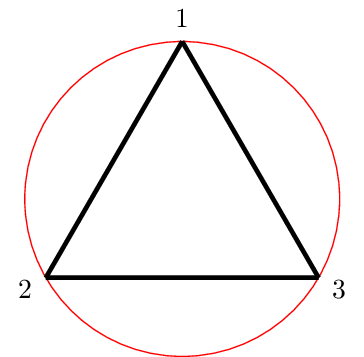
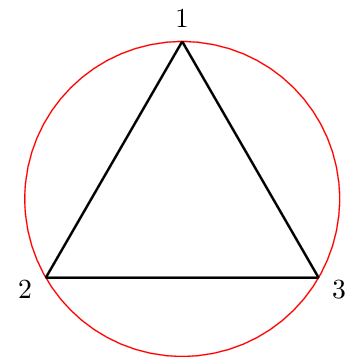
atualizando imagem

diff --git a/_posts/2024-09-23-como-desenhar-um-polígono-regular-com-latex-e-tikz.md b/_posts/2024-09-23-como-desenhar-um-polígono-regular-com-latex-e-tikz.md
@@ -270,13 +270,13 @@ $$
             \foreach \i in {1,...,\n} % lista que vai de 1 até '\n'
             {
                 % conectando P_i com P_{i+1}
-                \draw[ultra thick] ({\i*\a}:\r) -- ({(\i+1)*\a}:\r) node at ({\i*\a}:{\r+0.3}) {\i};
+                \draw[thick] ({\i*\a}:\r) -- ({(\i+1)*\a}:\r) node at ({\i*\a}:{\r+0.3}) {\i};
             }
         \end{scope}
     \end{tikzpicture}
 }</code></pre>
 
-<p>Além da circunferência, veja que também colocamos a opção <b>ultra thick</b> nos lados do polígono para deixar seus segmentos mais grossos. Com isso, temos o seguinte resultado para $n=3$:</p>
+<p>Além da circunferência, veja que também colocamos a opção <b>thick</b> nos lados do polígono para deixar seus segmentos mais grossos. Com isso, temos o seguinte resultado para $n=3$:</p>
 
 <img src="/blog/assets/img/2024/09/23/polígono-regular-n3-circunferência.png" alt="Triângulo equilátero com nodes nos vértices e uma circunferência circunscrita" style="width: 100%; max-width: 200px; margin-left: auto; margin-right: auto; display: block; margin-top: 30px; margin-bottom: 30px;">
 
@@ -299,7 +299,7 @@ $$
             \foreach \i in {1,...,\n} % lista que vai de 1 até '\n'
             {
                 % conectando P_i com P_{i+1}
-                \draw[ultra thick] ({\i*\a}:\r) -- ({(\i+1)*\a}:\r) node at ({\i*\a}:{\r+0.3}) {\i};
+                \draw[thick] ({\i*\a}:\r) -- ({(\i+1)*\a}:\r) node at ({\i*\a}:{\r+0.3}) {\i};
 
                 % conectando P_i com a origem
                 \draw[dashed, ultra thin] ({\i*\a}:\r) -- (0,0);
@@ -331,7 +331,7 @@ $$
             \foreach \i in {1,...,\n} % lista que vai de 1 até '\n'
             {
                 % conectando P_i com P_{i+1}
-                \draw[ultra thick] ({\i*\a}:\r) -- ({(\i+1)*\a}:\r) node at ({\i*\a}:{\r+0.3}) {\i};
+                \draw[thick] ({\i*\a}:\r) -- ({(\i+1)*\a}:\r) node at ({\i*\a}:{\r+0.3}) {\i};
 
                 % conectando P_i com a origem
                 \draw[dashed, ultra thin] ({\i*\a}:\r) -- (0,0);
@@ -350,4 +350,48 @@ $$
 
 <img src="/blog/assets/img/2024/09/23/polígono-regular-n3-raios.png" alt="Triângulo equilátero com nodes nos vértices e uma circunferência circunscrita - conexão dos vértices com a origem e com label r representando o raio" style="width: 100%; max-width: 200px; margin-left: auto; margin-right: auto; display: block; margin-top: 30px; margin-bottom: 30px;">
 
-<p>Por fim, podemos adicionar uma cor de fundo no polígono. Podemos fazer isso também via foreach, mas com uma pequena modificação. Como a ordem dos elementos desenhados importa, precisamos adicionar</p>
+<p>Por fim, podemos adicionar uma cor de fundo no polígono. Podemos fazer isso também via foreach, mas com uma pequena modificação. Como a ordem dos elementos desenhados importa, precisamos adicionar o trecho de código de modo que a cor de fundo seja desenhada primeiro, antes dos outros elementos:</p>
+
+<pre class="line-numbers" data-line="16-19">
+<code class="language-latex">\newcommand{\desenharPoligonoRegular}[2]%
+{
+    \begin{tikzpicture}
+
+        \pgfmathsetmacro{\n}{#1} % lados do polígono
+        \pgfmathsetmacro{\r}{#2} % raio da circunferência circunscrita à base
+        \pgfmathsetmacro{\a}{360/\n} % ângulo central a partir de '\n'
+
+        % circunferência circunscrita
+        \draw[red] (0,0) circle (\r);
+
+        % criando um escopo que rotaciona a base xy cartesiana em 
+        % 90-\a graus no sentido anti-horário
+        \begin{scope}[rotate=90-\a]
+
+            \fill[gray!30] (\a:\r) foreach \i in {2,3,...,\n}
+            {
+                --  ({\i*\a}:\r)
+            } -- cycle;
+        
+            \foreach \i in {1,...,\n} % lista que vai de 1 até '\n'
+            {
+                % conectando P_i com P_{i+1}
+                \draw[thick] ({\i*\a}:\r) -- ({(\i+1)*\a}:\r) node at ({\i*\a}:{\r+0.3}) {\i};
+
+                % conectando P_i com a origem
+                \draw[dashed, ultra thin] ({\i*\a}:\r) -- (0,0);
+
+                % desenhar o texto $r$ posicionado
+                % na metade do valor de \r
+                \begin{scope}[rotate=10]
+                    \node[red] at ({\i*\a}:\r*0.5) {$r$};
+                \end{scope}
+            }
+        \end{scope}
+    \end{tikzpicture}
+}</code></pre>
+
+Acima, veja que usamos primeiro o comando <b>\fill[gray!30]</b> seguido do primeiro vértice <b>(\a:\r)</b> que define a região da cor de fundo. Especificamos a cor de fundo sendo um cinza $30\%$. Em seguida usamos o comando <b>foreach</b>, de forma a ter dentro dele as coordenadas que definem os vértices do polígono que será preenchido (de forma iterativa). Logo após o <b>foreach</b>, colocamos <b>-- cycle</b> para fechar o polígono da cor de fundo, conectando o último vértice da iteração com o primeiro <b>(\a:\r)</b>.
+
+O código acima produz a seguinte figura:
+
